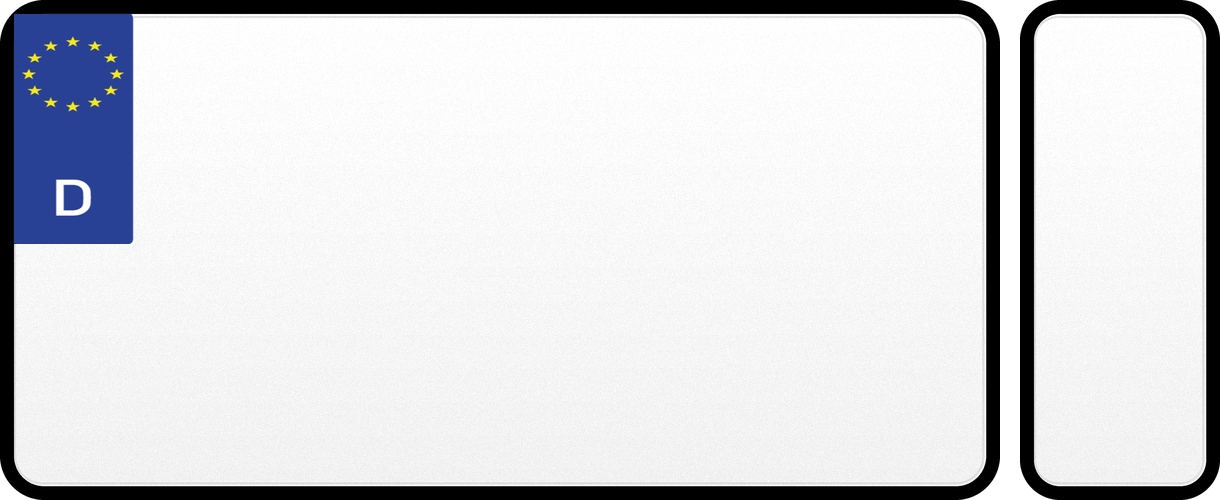
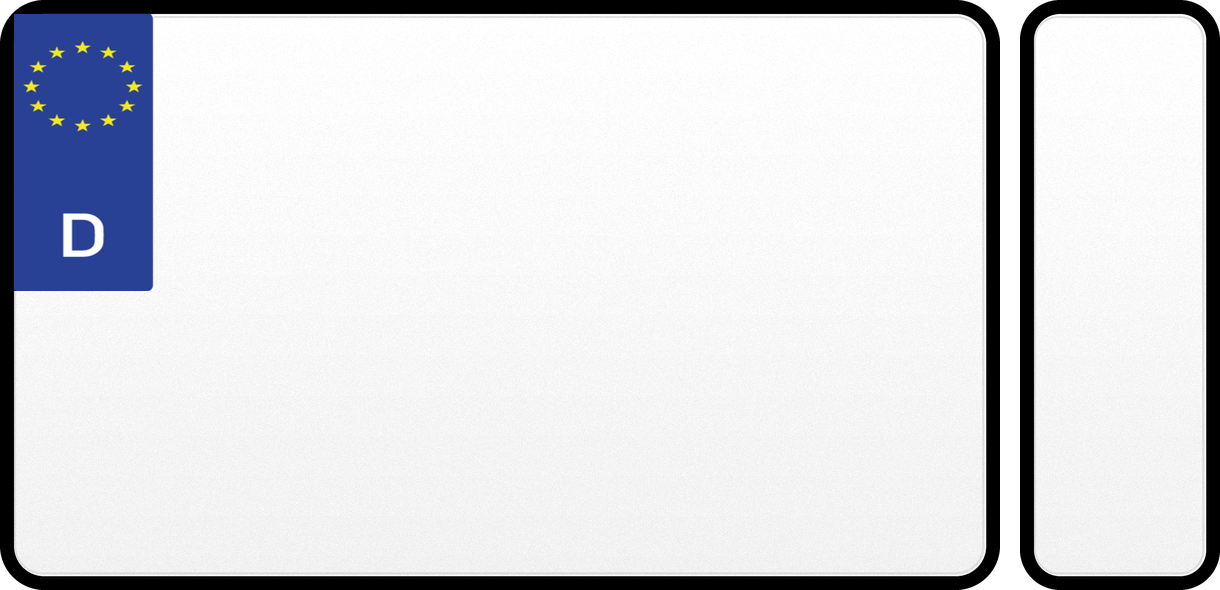
Germany: old motorcycle, new motorcycle and US-size plates redrawn from the reference photos (proportions, euroband, sticker and seal positions)

diff --git a/app/lib/plateLayout.ts b/app/lib/plateLayout.ts
@@ -263,13 +263,13 @@ export const PLATE_ART: Record<string, PlateArt> = {
   "germany:transferable": { src: "/plates/germany/transferable.png", w: 1920, h: 390, rows: [{ y0: 50, y1: 328, x0: 172, x1: 1530, slots: 2, seal: true, gap: 0.1 }, { y0: 200, y1: 345, x0: 1605, x1: 1905, slots: 1, own: true }], split: "de-wechsel", fill: 0.98, condense: 0.88, tracking: 0.015, space: 0.2, emboss: true, seal: "/plates/germany/seals/XX.png", sealAspect: 162 / 322, sealH: 1.16, huSeals: { stickerY: 105, sealY: 285, stickerD: 60, sealD: 158, frontY: 285, topSrc: "/plates/germany/w.png" }, fixed: [{ kind: "hu", x: 1755, y: 112, d: 130 }] },
   // two-row / US / motorcycle transferable plates (small plate at the right; a small "W" instead of the sticker on the main plate)
   "germany:transferable-two": { src: "/plates/germany/transferable-two.png", w: 920, h: 500, rows: [{ y0: 36, y1: 252, x0: 150, x1: 520, slots: 1 }, { y0: 300, y1: 478, x0: 40, x1: 660, slots: 1 }, { y0: 300, y1: 478, x0: 735, x1: 905, slots: 1, own: true }], split: "de-wechsel", fill: 0.86, condense: 0.9, tracking: 0.015, emboss: true, fixed: [{ kind: "w", x: 590, y: 96, d: 56 }, { kind: "state", x: 590, y: 240, d: 128 }, { kind: "hu", x: 820, y: 130, d: 120 }] },
-  "germany:transferable-us": { src: "/plates/germany/transferable-us.png", w: 1220, h: 500, rows: [{ y0: 36, y1: 252, x0: 200, x1: 720, slots: 1 }, { y0: 300, y1: 478, x0: 60, x1: 940, slots: 1 }, { y0: 300, y1: 478, x0: 1040, x1: 1200, slots: 1, own: true }], split: "de-wechsel", fill: 0.86, condense: 0.9, tracking: 0.015, emboss: true, fixed: [{ kind: "w", x: 860, y: 96, d: 60 }, { kind: "state", x: 860, y: 240, d: 140 }, { kind: "hu", x: 1120, y: 130, d: 130 }] },
+  "germany:transferable-us": { src: "/plates/germany/transferable-us.png", w: 1220, h: 590, rows: [{ y0: 56, y1: 277, x0: 300, x1: 640, slots: 1 }, { y0: 313, y1: 540, x0: 80, x1: 930, slots: 1 }, { y0: 313, y1: 540, x0: 1040, x1: 1200, slots: 1, own: true }], split: "de-wechsel", fill: 0.98, condense: 0.9, tracking: 0.015, emboss: true, fixed: [{ kind: "w", x: 815, y: 100, d: 60 }, { kind: "state", x: 815, y: 224, d: 134 }, { kind: "hu", x: 1120, y: 150, d: 130 }] },
   "germany:transferable-moto": { src: "/plates/germany/transferable-moto.png", w: 1160, h: 1000, rows: [{ y0: 60, y1: 340, x0: 230, x1: 860, slots: 1 }, { y0: 690, y1: 970, x0: 50, x1: 850, slots: 1 }, { y0: 690, y1: 970, x0: 940, x1: 1140, slots: 1, own: true }], split: "de-wechsel", fill: 0.86, condense: 0.9, tracking: 0.015, emboss: true, fixed: [{ kind: "state", x: 420, y: 500, d: 180 }, { kind: "w", x: 600, y: 500, d: 90 }, { kind: "hu", x: 1040, y: 330, d: 170 }] },
   // ── Germany, regular two-row, US-size and motorcycle plates: euroband top-left, inspection sticker and state seal at fixed spots ──
-  "germany:us": { src: "/plates/germany/us.png", w: 1000, h: 500, rows: [{ y0: 36, y1: 252, x0: 200, x1: 720, slots: 1 }, { y0: 300, y1: 478, x0: 60, x1: 940, slots: 1 }], split: "de-two", fill: 0.86, condense: 0.9, tracking: 0.015, emboss: true, fixed: [{ kind: "hu", x: 860, y: 96, d: 128 }, { kind: "state", x: 860, y: 240, d: 140 }] },
+  "germany:us": { src: "/plates/germany/us.png", w: 1000, h: 590, rows: [{ y0: 56, y1: 277, x0: 300, x1: 640, slots: 1 }, { y0: 313, y1: 540, x0: 80, x1: 930, slots: 1 }], split: "de-two", fill: 0.98, condense: 0.9, tracking: 0.015, emboss: true, fixed: [{ kind: "hu", x: 815, y: 100, d: 104 }, { kind: "state", x: 815, y: 224, d: 134 }] },
   "germany:two": { src: "/plates/germany/two.png", w: 700, h: 500, rows: [{ y0: 36, y1: 252, x0: 150, x1: 520, slots: 1 }, { y0: 300, y1: 478, x0: 40, x1: 660, slots: 1 }], split: "de-two", fill: 0.86, condense: 0.9, tracking: 0.015, emboss: true, fixed: [{ kind: "hu", x: 590, y: 96, d: 118 }, { kind: "state", x: 590, y: 240, d: 128 }] },
-  "germany:moto": { src: "/plates/germany/moto.png", w: 900, h: 1000, rows: [{ y0: 60, y1: 340, x0: 230, x1: 860, slots: 1 }, { y0: 690, y1: 970, x0: 50, x1: 850, slots: 1 }], split: "de-two", fill: 0.86, condense: 0.9, tracking: 0.015, emboss: true, fixed: [{ kind: "hu", x: 320, y: 500, d: 170 }, { kind: "state", x: 540, y: 500, d: 180 }] },
-  "germany:moto-old": { src: "/plates/germany/moto-old.png", w: 900, h: 1000, rows: [{ y0: 100, y1: 470, x0: 270, x1: 880, slots: 1 }, { y0: 540, y1: 930, x0: 270, x1: 880, slots: 1 }], split: "de-two", fill: 0.86, condense: 0.9, tracking: 0.015, emboss: true, fixed: [{ kind: "hu", x: 120, y: 440, d: 150 }, { kind: "state", x: 120, y: 640, d: 170 }] },
+  "germany:moto": { src: "/plates/germany/moto.png", w: 900, h: 1000, rows: [{ y0: 70, y1: 320, x0: 340, x1: 700, slots: 1 }, { y0: 670, y1: 940, x0: 60, x1: 840, slots: 1 }], split: "de-two", fill: 0.98, condense: 0.9, tracking: 0.015, emboss: true, fixed: [{ kind: "hu", x: 290, y: 530, d: 160 }, { kind: "state", x: 510, y: 520, d: 210 }] },
+  "germany:moto-old": { src: "/plates/germany/moto-old.png", w: 1100, h: 1000, rows: [{ y0: 100, y1: 470, x0: 275, x1: 990, slots: 1 }, { y0: 530, y1: 930, x0: 280, x1: 990, slots: 1 }], split: "de-two", fill: 0.98, condense: 0.9, tracking: 0.015, emboss: true, fixed: [{ kind: "hu", x: 165, y: 560, d: 150 }, { kind: "state", x: 165, y: 770, d: 190 }] },
   // ── Germany, 5-day plates (Kurzzeitkennzeichen): DIN lettering, yellow strip with the expiry date (three small lines), blue seal ──
   "germany:transit": { src: "/plates/germany/transit.png", w: 1920, h: 390, rows: [{ y0: 50, y1: 340, x0: 60, x1: 1660, slots: 2, seal: true, gap: 0.07 }, { y0: 40, y1: 130, x0: 1715, x1: 1895, slots: 1, own: true }, { y0: 150, y1: 240, x0: 1715, x1: 1895, slots: 1, own: true }, { y0: 260, y1: 350, x0: 1715, x1: 1895, slots: 1, own: true }], split: "de-transit", fill: 0.92, condense: 0.88, tracking: 0.015, seal: "/plates/germany/seals/XX.png", sealAspect: 1, sealH: 0.36, tempSeal: { y: 262, d: 104 } },
   "germany:transit-two": { src: "/plates/germany/transit-two.png", w: 960, h: 600, rows: [{ y0: 40, y1: 290, x0: 200, x1: 730, slots: 1 }, { y0: 310, y1: 565, x0: 50, x1: 910, slots: 1 }, { y0: 30, y1: 100, x0: 785, x1: 945, slots: 1, own: true }, { y0: 118, y1: 188, x0: 785, x1: 945, slots: 1, own: true }, { y0: 206, y1: 276, x0: 785, x1: 945, slots: 1, own: true }], split: "de-transit", fill: 0.92, condense: 0.88, tracking: 0.015, fixed: [{ kind: "temp", x: 120, y: 165, d: 110 }] },

diff --git a/app/components/PlateBadge.tsx b/app/components/PlateBadge.tsx
@@ -12,7 +12,7 @@ export { formatPlateText } from "@/app/lib/plateLayout";
 export type { PlateSize };
 
 /** Bump when the plate rendering changes, so CDN-cached images refresh. */
-const PLATE_IMAGE_VERSION = 162;
+const PLATE_IMAGE_VERSION = 164;
 /** Render at 3× for crisp output on high-density screens. */
 const DENSITY = 3;
 

diff --git a/scripts/build-germany-art.py b/scripts/build-germany-art.py
@@ -139,10 +139,10 @@ def regular_plate(w, h, radius, name, band_box, band=True):
         x0, y0, x1, y1 = band_box
         im.alpha_composite(BAND.resize((x1 - x0, y1 - y0), Image.LANCZOS), (x0, y0))
     im.save(os.path.join(OUT, name))
-regular_plate(1000, 500, 44, "us.png", (14, 14, 134, 244))
+regular_plate(1000, 590, 44, "us.png", (14, 14, 154, 291))
 regular_plate(700, 500, 44, "two.png", (14, 14, 114, 244))
-regular_plate(900, 1000, 56, "moto.png", (14, 14, 164, 324))
-regular_plate(900, 1000, 56, "moto-old.png", (14, 14, 164, 324))
+regular_plate(900, 1000, 56, "moto.png", (14, 14, 204, 454))
+regular_plate(1100, 1000, 56, "moto-old.png", (14, 14, 201, 448))
 print("regular ok")
 
 
